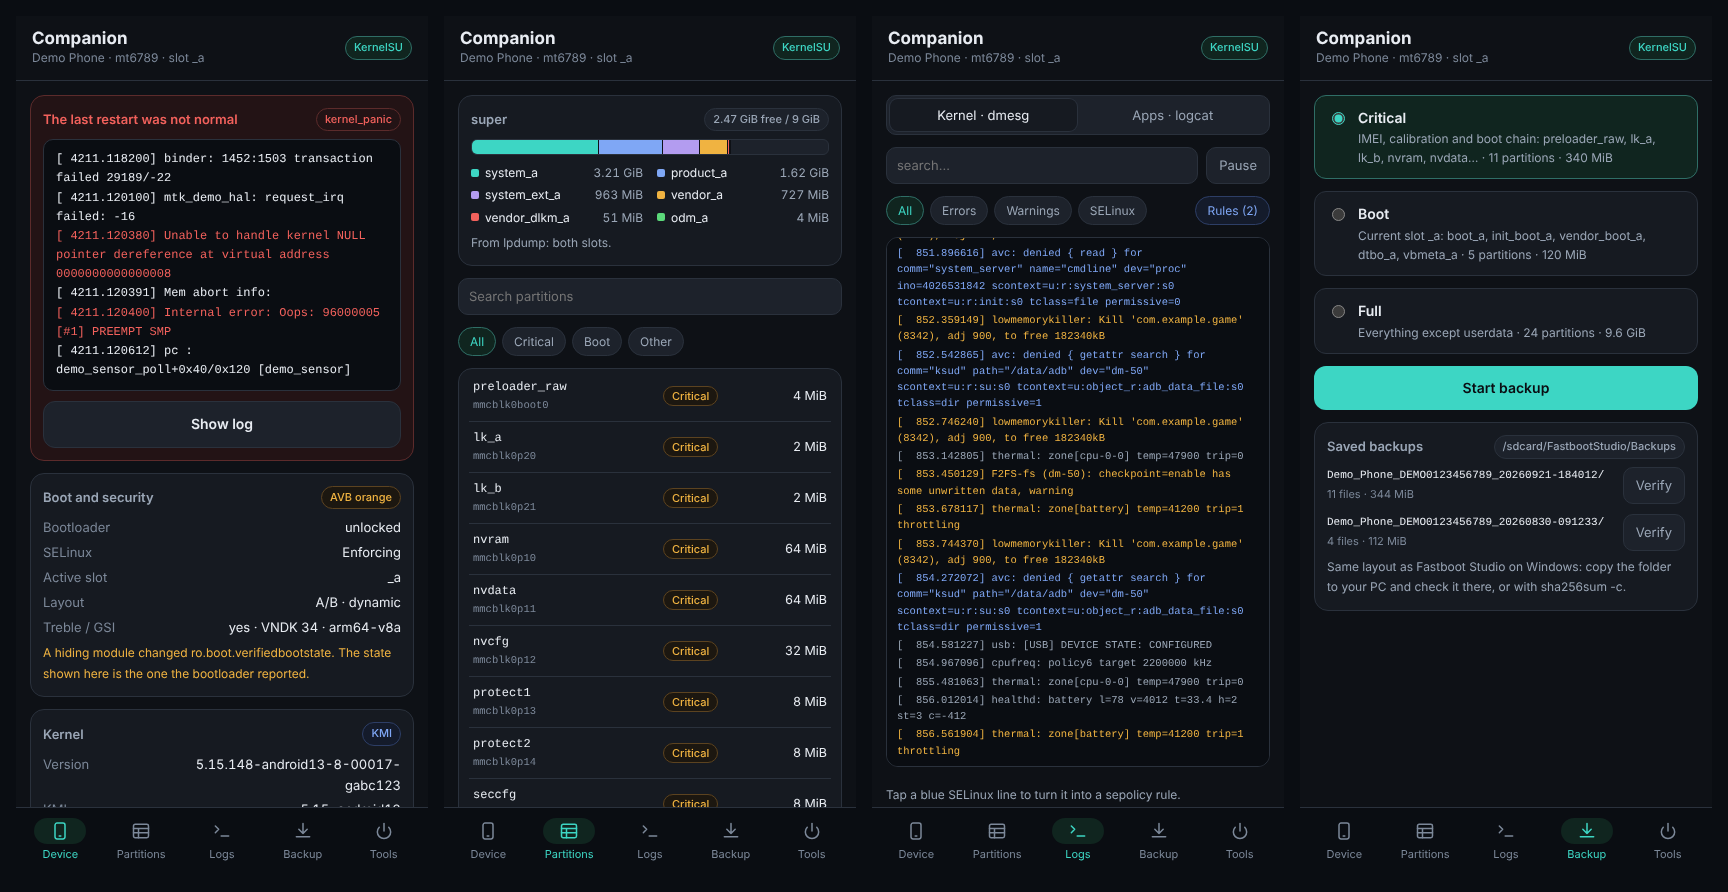
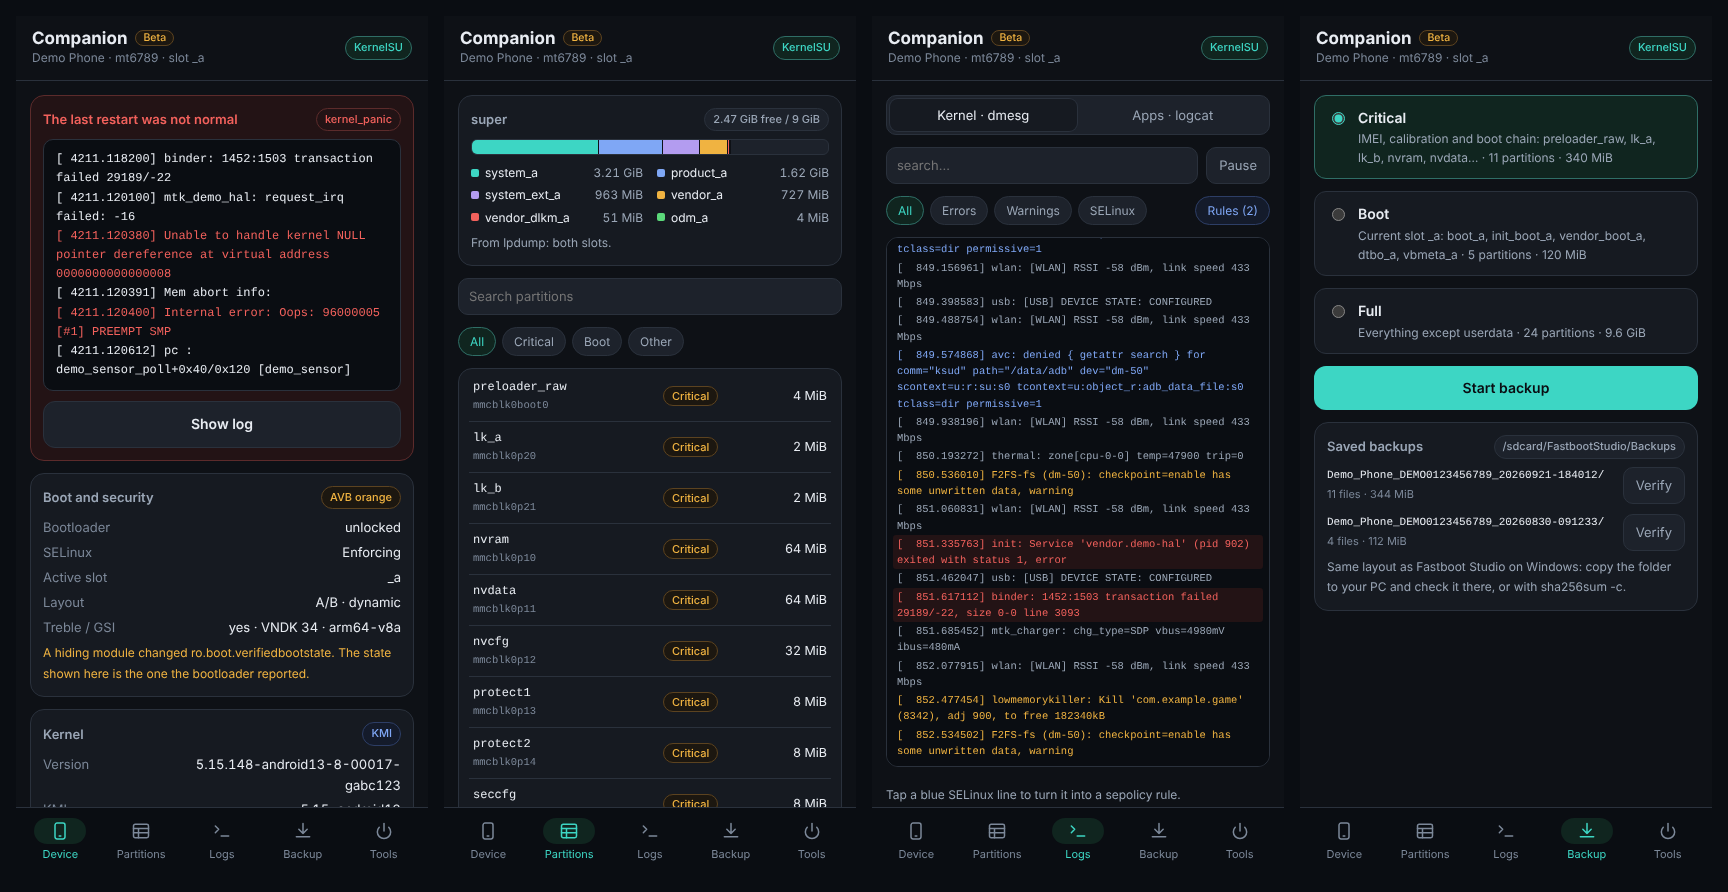
v2.3.0 Beta: version follows Fastboot Studio, marked experimental
One switch, FBS_CHANNEL in bin/fbs, says whether the module is a beta:
- module.prop is named "Fastboot Studio Companion (Beta)" and its
  description starts with "Beta"; tools/build.sh refuses a build where the
  name and the channel disagree.
- fbs info reports "channel", and the WebUI shows a Beta badge in the header
  and in About.
- release.yml publishes a beta as a pre-release whatever the input says, and
  the Telegram post calls it a beta that still arrives through the root
  manager.

The version is now v2.3.0 (versionCode 230), the same as Fastboot Studio.

Claude-Session: https://claude.ai/code/session_013SeoxJcng9j8WCeM1fwXnZ

diff --git a/module/webroot/i18n.js b/module/webroot/i18n.js
@@ -61,7 +61,7 @@ const STRINGS = {
     'bundle.redact': 'Mask IMEI, serial and MAC addresses', 'bundle.go': 'Make the file', 'bundle.making': 'Collecting…',
     'bundle.saved': 'Saved to {0}',
     'about.title': 'About', 'about.version': 'Version', 'about.backups': 'Backups', 'about.source': 'Source',
-    'lang.auto': 'Auto',
+    'lang.auto': 'Auto', 'beta': 'Beta',
     'demo': 'Demo data. Open this page from your root manager to see your own phone.',
   },
   ar: {
@@ -122,7 +122,7 @@ const STRINGS = {
     'bundle.redact': 'إخفاء الـ IMEI والسيريال وعناوين MAC', 'bundle.go': 'جهّز الملف', 'bundle.making': 'يجمع…',
     'bundle.saved': 'انحفظ في {0}',
     'about.title': 'عن الوحدة', 'about.version': 'النسخة', 'about.backups': 'الباك أب', 'about.source': 'الكود',
-    'lang.auto': 'تلقائي',
+    'lang.auto': 'تلقائي', 'beta': 'تجريبي',
     'demo': 'بيانات تجريبية. افتح الصفحة من تطبيق الروت عشان تشوف جوالك.',
   },
 };

diff --git a/module/webroot/app.js b/module/webroot/app.js
@@ -153,6 +153,7 @@ function renderDevice() {
   const root = $('#rootChip');
   root.textContent = i.root;
   root.hidden = !i.root || i.root === 'unknown';
+  $('#betaChip').hidden = i.channel !== 'beta';
 
   const vb = (i.boot.vbstate || '').toLowerCase();
   const avb = $('#avbChip');
@@ -633,7 +634,7 @@ function renderTools() {
   $('#rebootGrid').innerHTML = targets.map(([id, name, cmd, ok, why]) =>
     `<button class="rbtn" data-r="${id}"${ok ? '' : ' disabled'}><b>${name}</b><small class="ltr">${esc(ok ? cmd : why)}</small></button>`).join('');
   kv($('#aboutKv'), [
-    [T('about.version'), 'v' + i.fbs],
+    [T('about.version'), 'v' + i.fbs + (i.channel === 'beta' ? ' · ' + T('beta') : '')],
     [T('about.backups'), '/sdcard/FastbootStudio/Backups'],
     [T('about.source'), 'github.com/ifoknr/FastbootStudio-Companion'],
   ]);

diff --git a/module/webroot/style.css b/module/webroot/style.css
@@ -25,7 +25,8 @@ button, input { font: inherit; color: inherit; }
   position: sticky; top: 0; z-index: 3; display: flex; align-items: center; justify-content: space-between; gap: 8px;
   padding: calc(var(--top) + 12px) 16px 12px; background: var(--bg); border-bottom: 1px solid var(--line);
 }
-.appbar .title { font-weight: 700; font-size: 17px; line-height: 1.2; }
+.appbar .title { font-weight: 700; font-size: 17px; line-height: 1.2; display: flex; align-items: center; gap: 8px; }
+.appbar .title .chip { font-size: 10.5px; padding: 1px 7px; }
 .appbar .sub { font-size: 12px; color: var(--faint); direction: ltr; unicode-bidi: isolate; }
 [dir="rtl"] .appbar .sub { text-align: right; }
 

diff --git a/module/webroot/demo.js b/module/webroot/demo.js
@@ -22,7 +22,7 @@
   ];
 
   const info = {
-    fbs: '0.1.0', model: 'Demo Phone', brand: 'Demo', device: 'demo', product: 'demo_mt6789',
+    fbs: '2.3.0', channel: 'beta', model: 'Demo Phone', brand: 'Demo', device: 'demo', product: 'demo_mt6789',
     android: '14', sdk: '34', patch: '2026-08-05', build: 'DEMO-14.0.1', platform: 'mt6789', soc: 'mediatek',
     arch: 'arm64-v8a', slot: '_a', dynamic: true, treble: true, vndk: '34',
     boot: { vbstate: 'orange', device_state: 'unlocked', locked: false, spoofed: true },

diff --git a/module/webroot/index.html b/module/webroot/index.html
@@ -10,7 +10,7 @@
 <body>
   <header class="appbar">
     <div class="who">
-      <div class="title">Companion</div>
+      <div class="title">Companion <span class="chip warn" id="betaChip" hidden data-i="beta"></span></div>
       <div class="sub" id="whoLine">…</div>
     </div>
     <span class="chip" id="rootChip" hidden></span>

diff --git a/CHANGELOG.md b/CHANGELOG.md
@@ -2,8 +2,9 @@
 
 <!-- The "## vX.Y.Z" section is the release notes and the Telegram post (.github/scripts/telegram-release.sh): keep it short. -->
 
-## v0.1.0
-- أول إصدار: للقراءة فقط، ما يشتغل وقت الإقلاع وما يكتب على أي بارتشن
+## v2.3.0
+- إصدار تجريبي (Beta)، ورقمه نفس Fastboot Studio v2.3.0
+- للقراءة فقط: ما يشتغل وقت الإقلاع وما يكتب على أي بارتشن
 - فحص الجهاز: حالة البوت لودر الحقيقية، والكيرنل و KMI، وصحة البطارية والذاكرة
 - الصندوق الأسود: لوق آخر كراش مع أسطر الـ panic
 - البارتشنات وخريطة super، واللوق اللحظي مع قواعد SELinux جاهزة

diff --git a/README.md b/README.md
@@ -1,5 +1,10 @@
 # Fastboot Studio Companion
 
+> **Beta.** This module is experimental. Its version follows Fastboot Studio (v2.3.0), and releases
+> are published as pre-releases until it is marked stable.
+>
+> **تجريبي.** الوحدة في مرحلة تجريبية، ورقم إصدارها نفس Fastboot Studio (v2.3.0)، وإصداراتها تنزل كإصدارات تجريبية لين تصير مستقرة.
+
 A root module for **Magisk, KernelSU and APatch** that goes with
 [Fastboot Studio](https://github.com/ifoknr/FastbootStudio) on Windows. It shows what your phone
 really is, watches its logs live, and backs up its partitions in the same layout the Windows app
